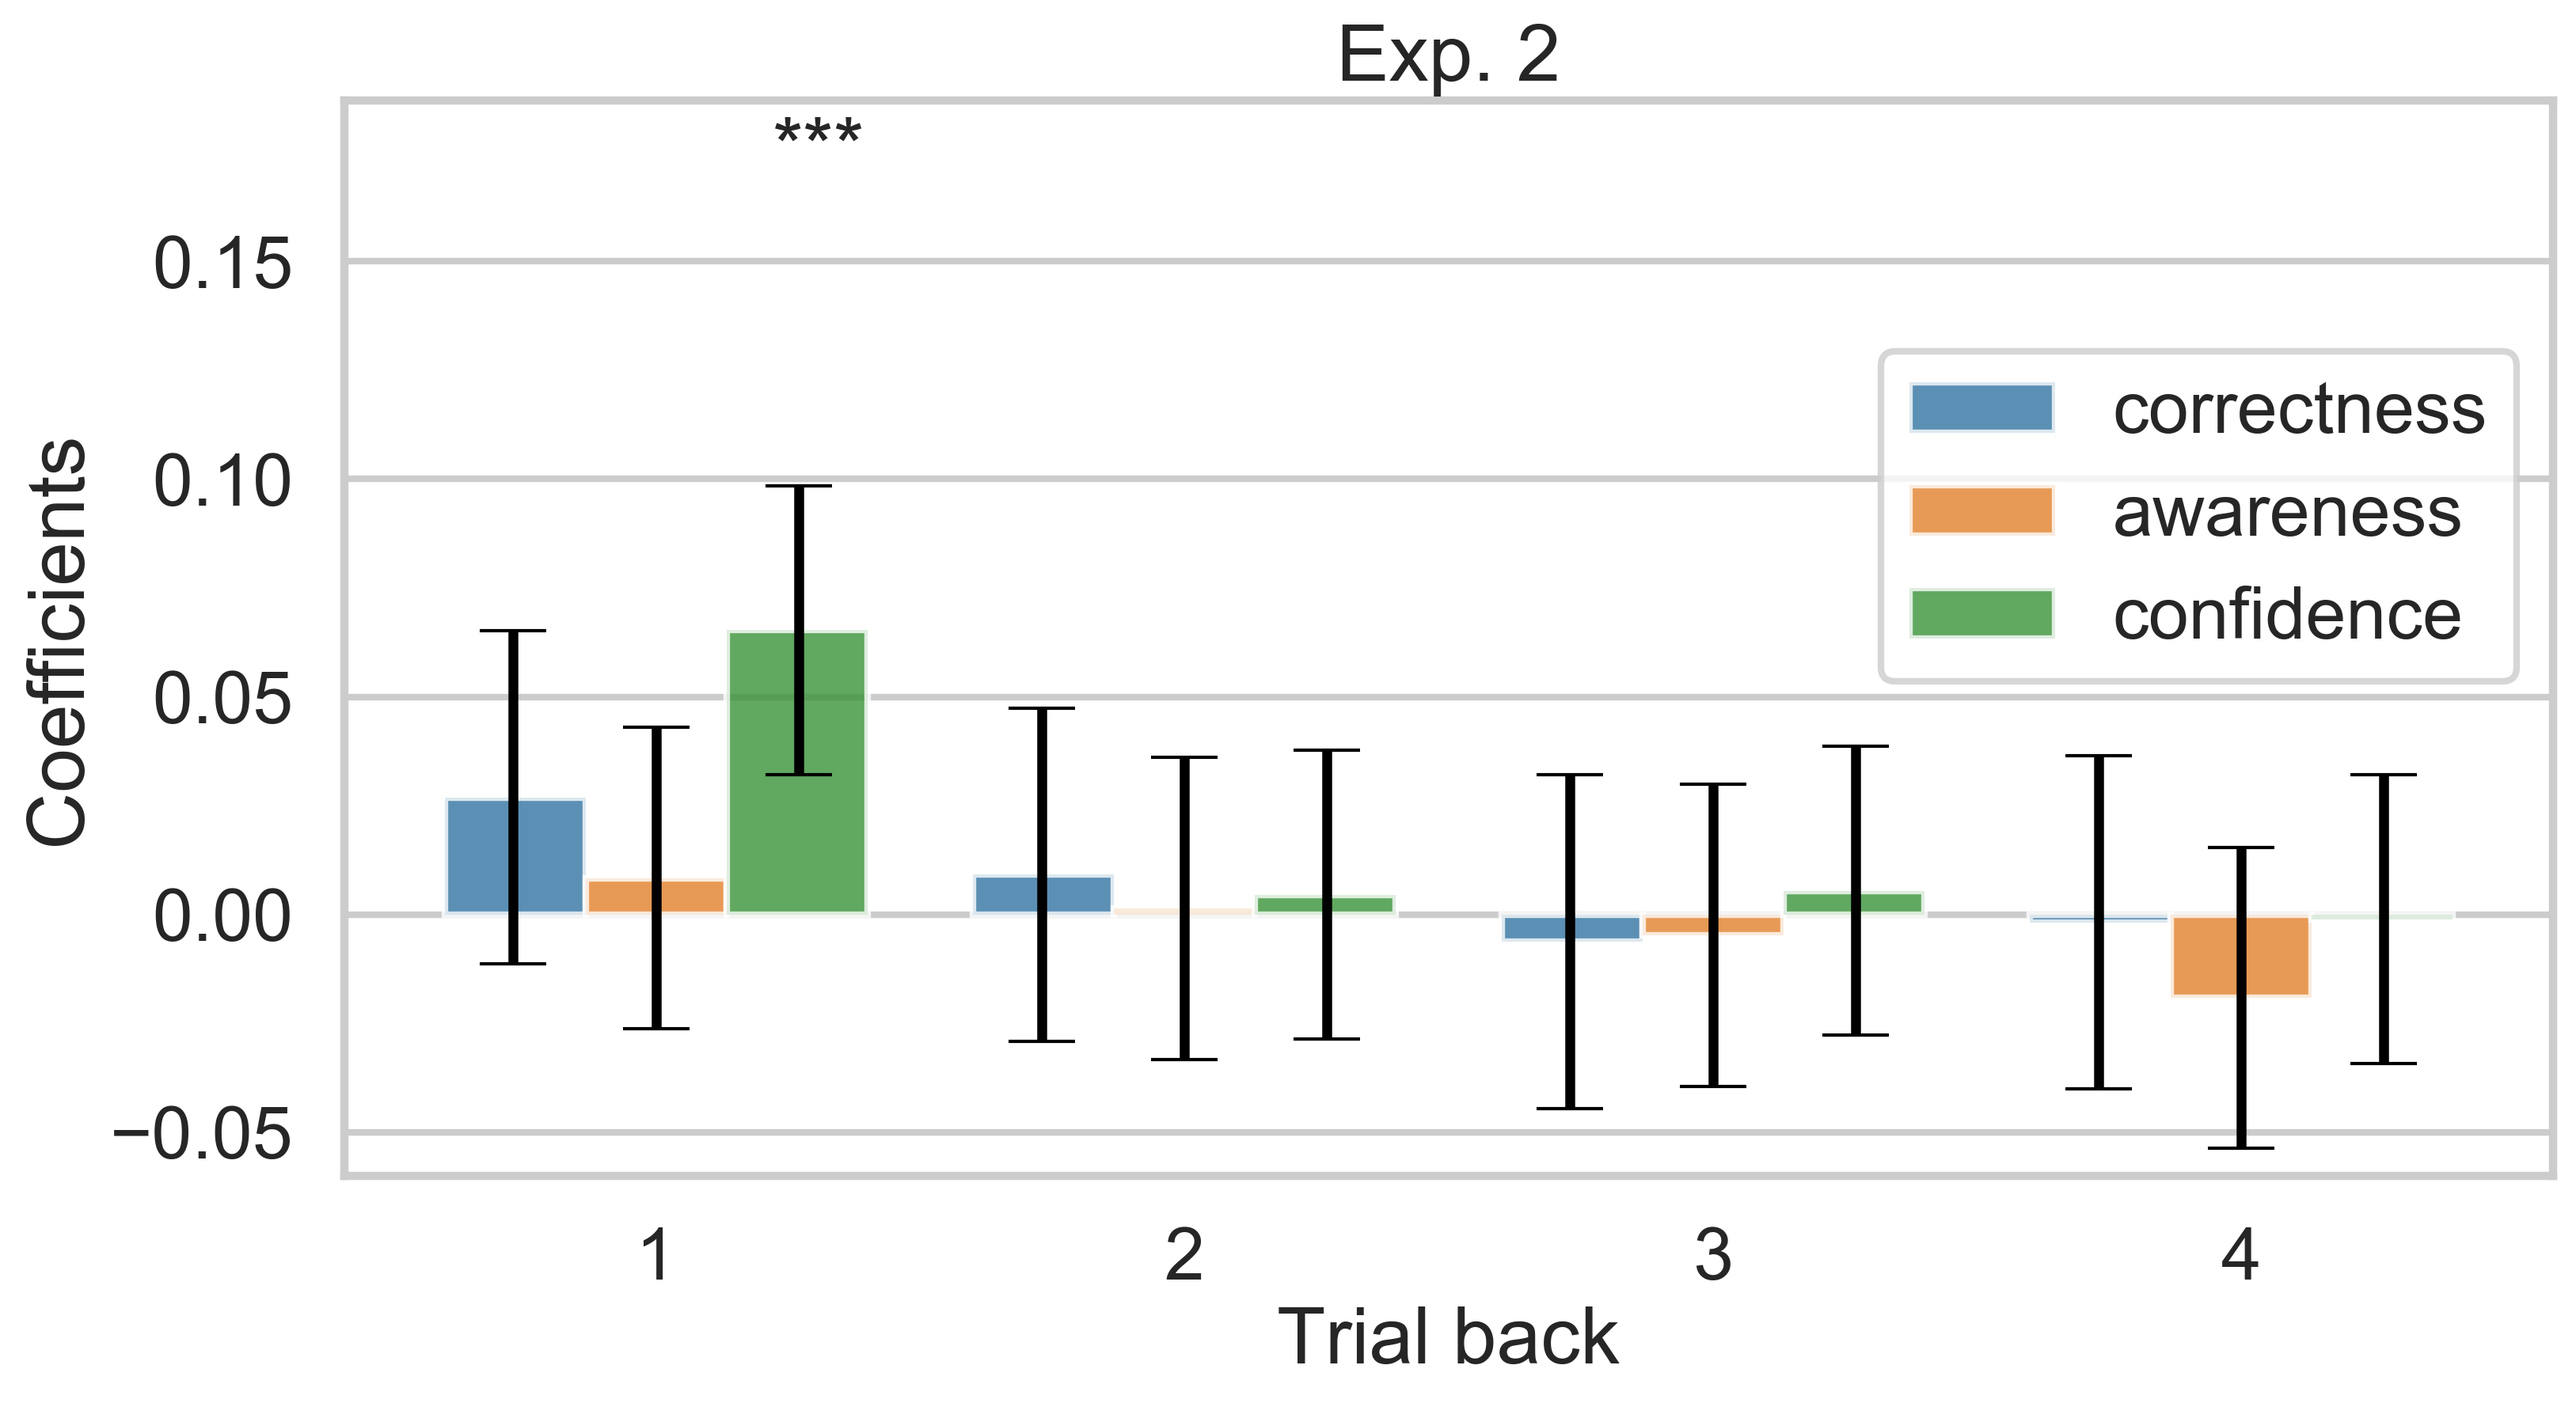
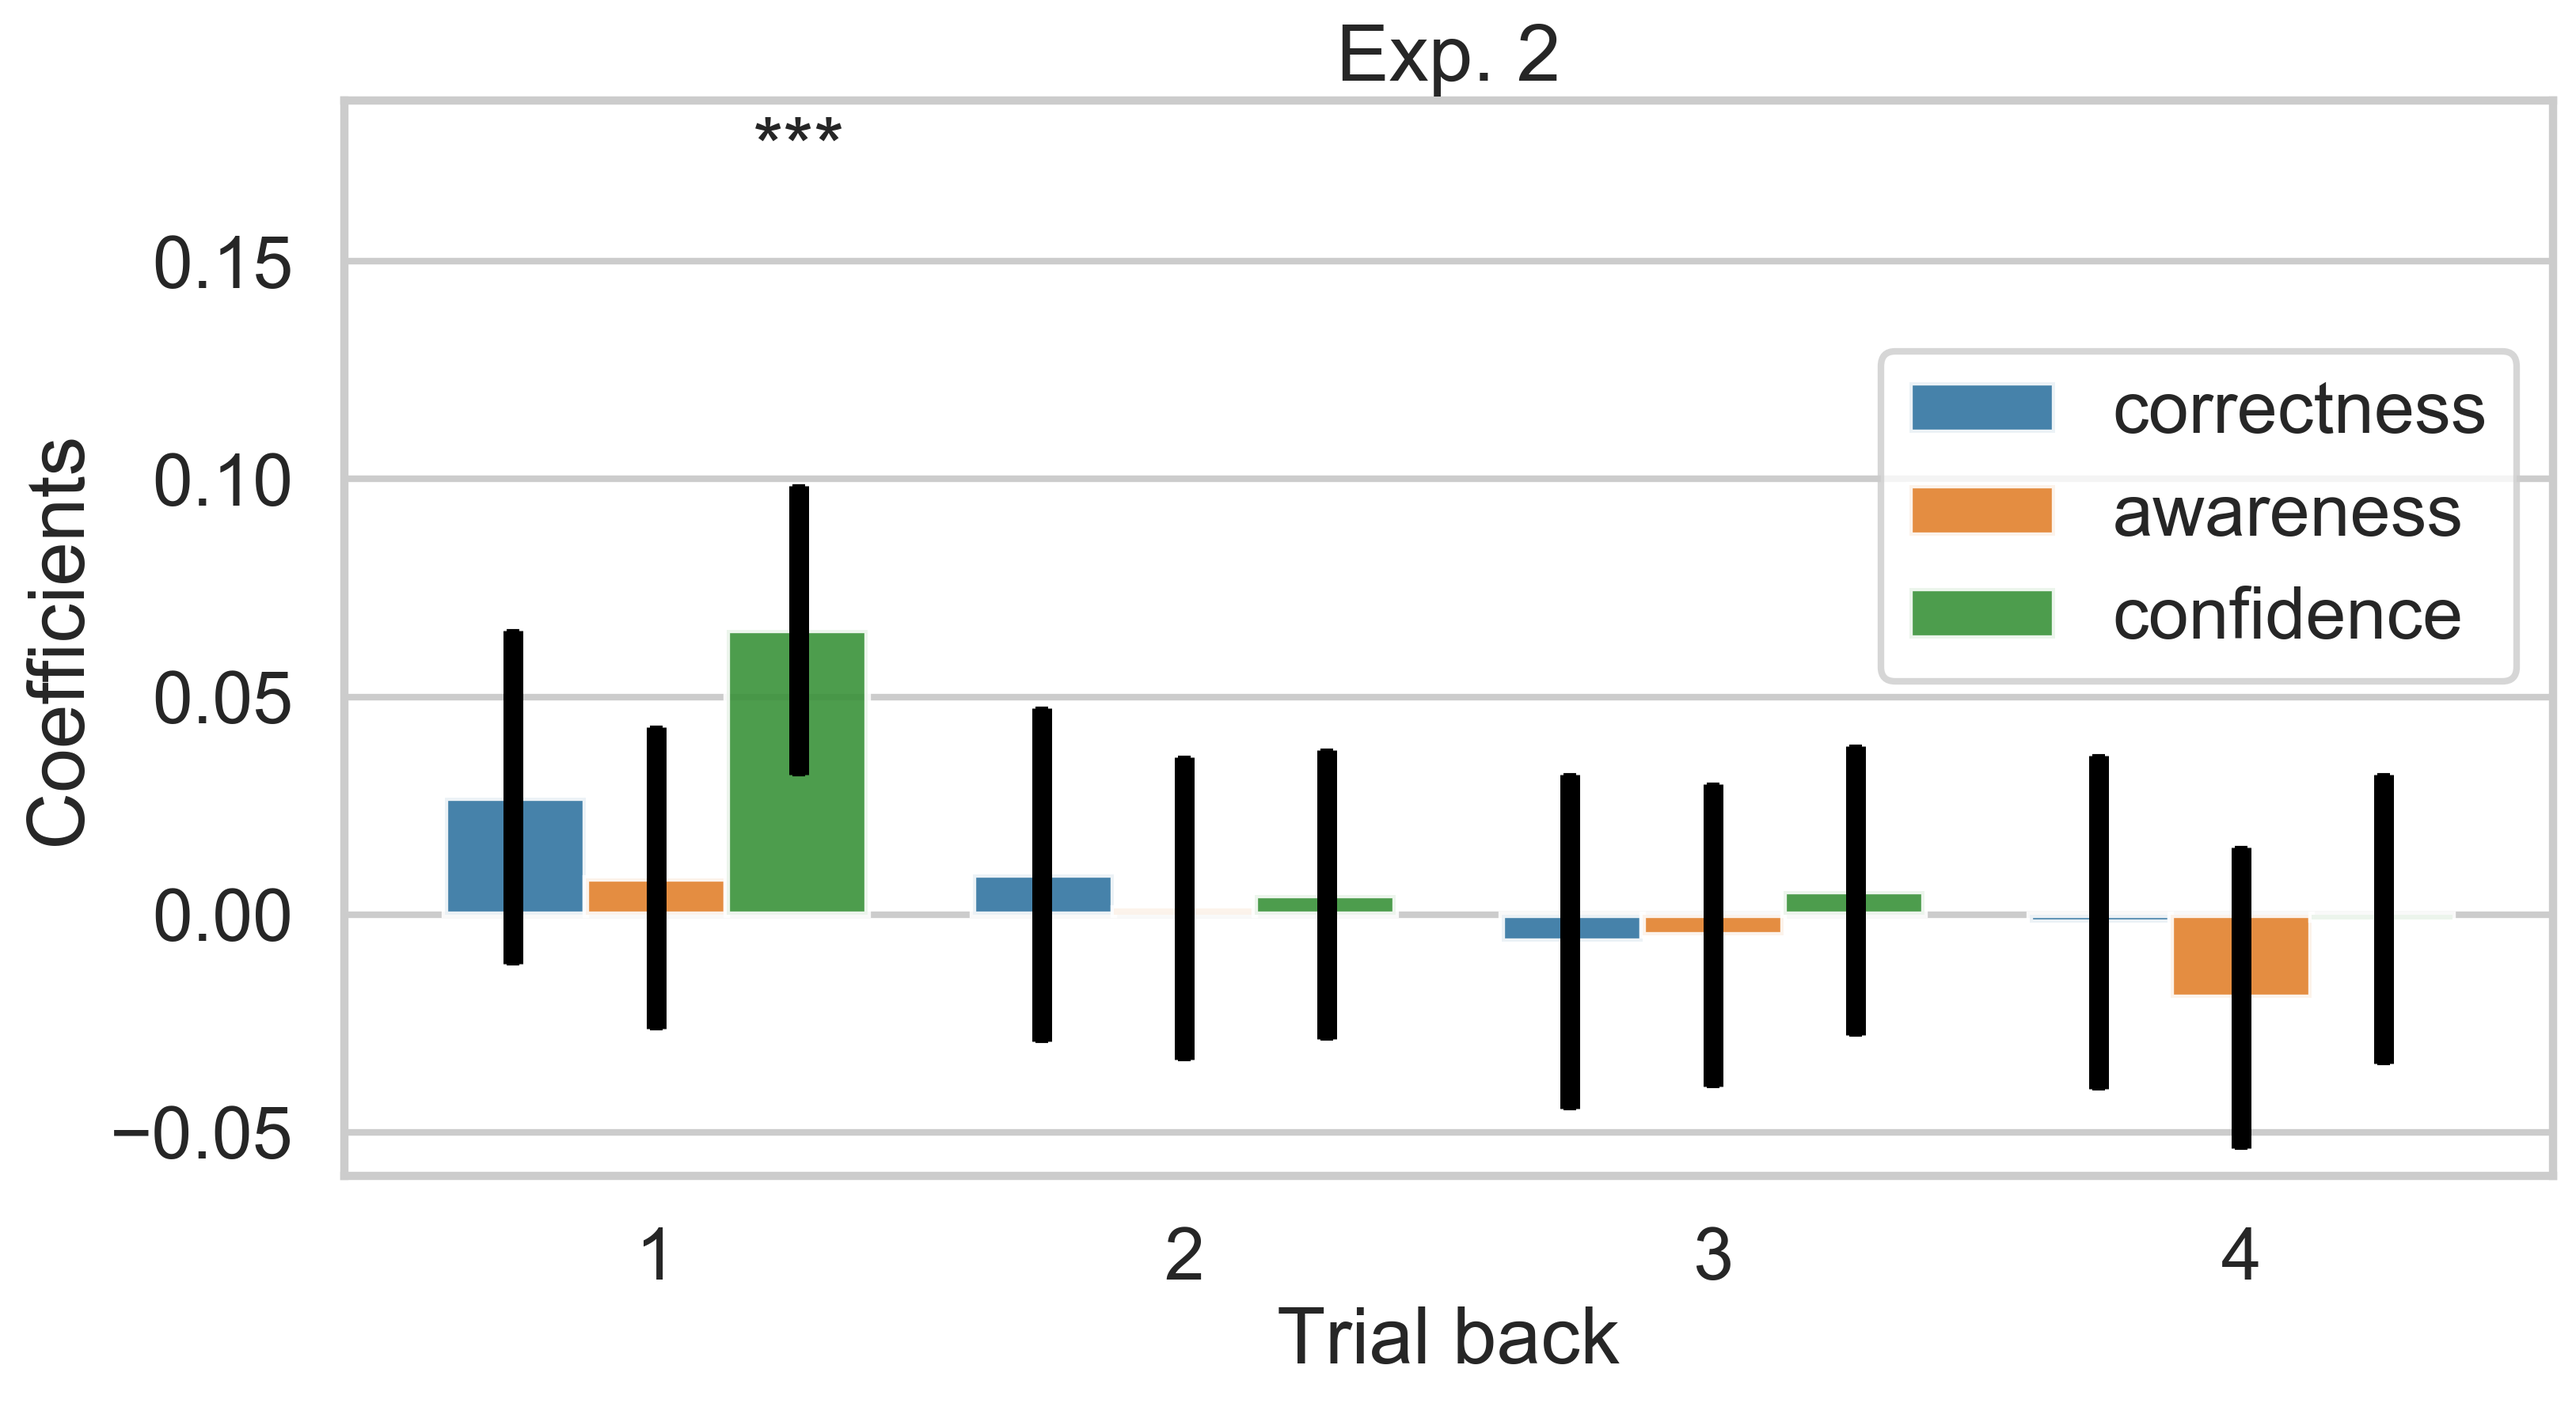
update new figure

diff --git a/scripts/plot_linear_mixed_model.py b/scripts/plot_linear_mixed_model.py
@@ -100,7 +100,7 @@ for ii,exp in enumerate(['POS','ATT']):
                      hue_order = ['correctness','awareness','confidence',],
                      data = df_sub,
                      ax = ax,
-                     alpha = 0.8,)
+                     alpha = 0.9,)
     df_sub = pd.concat([df_sub[df_sub['Attributes'] == attr].sort_values(['time']) for attr in ['correctness','awareness','confidence']])
     df_sub['subtract'] = np.concatenate([np.arange(-0.27,3,),
                                          np.arange(0,4),
@@ -114,8 +114,9 @@ for ii,exp in enumerate(['POS','ATT']):
                         df_sub['Estimate'].values - df_sub['lwr'].values),
                 linestyle = '',
                 color = 'black',
+                linewidth = 6,
                 alpha = 1.,
-                capsize = 10,)
+                capsize = 2,)
     exp_title = "Exp. 1" if exp == 'POS' else "Exp. 2"
     ax.set(title = exp_title,
            xlabel = 'Trial back',
@@ -124,9 +125,9 @@ for ii,exp in enumerate(['POS','ATT']):
     ax.legend(loc = 'upper right',bbox_to_anchor=(1.,0.8))
     for kk,row in df_sub.iterrows():
         if row['star'] != 'n.s.':
-            ax.text(row['subtract'] - 0.05,
-                    y_pos[exp],
-                    row['star'])
+            ax.annotate(row['star'],
+                        xy = (row['subtract'],y_pos[exp]),
+                        ha='center')
     fig.savefig(os.path.join(figure_dir,
                              f'{exp}.png'),
     dpi = 300,
